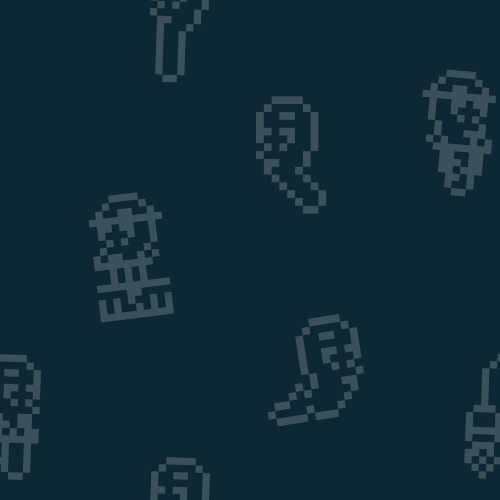
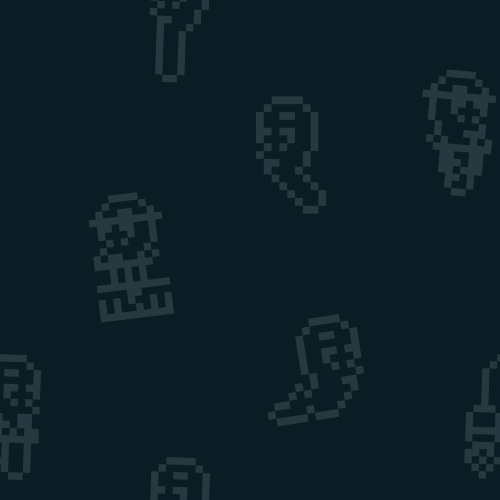
Adjust bg and footer

diff --git a/src/components/Footer.tsx b/src/components/Footer.tsx
@@ -5,7 +5,7 @@ const FooterWrapper = styled.footer`
 	max-width: 1200px;
 	margin: 0 auto;
 	padding: 40px 20px;
-	border-top: 1px solid var(--border);
+	/* border-top: 1px solid var(--border); */
 	text-align: center;
 	color: var(--text-dim);
 	font-size: 0.9rem;
